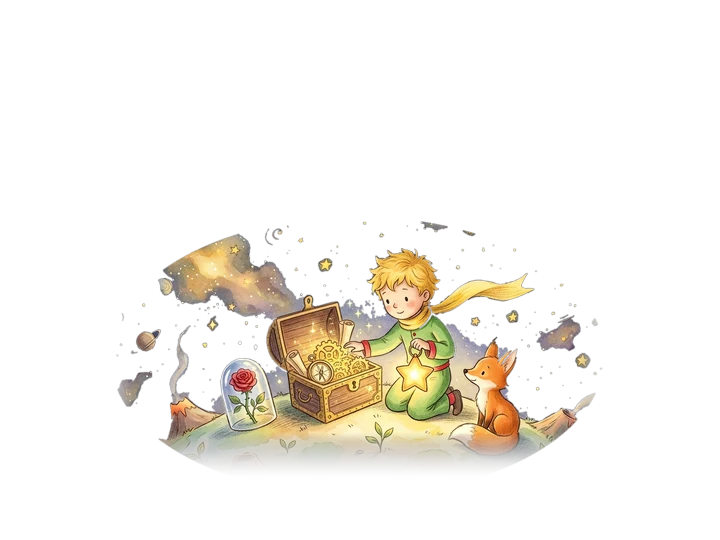
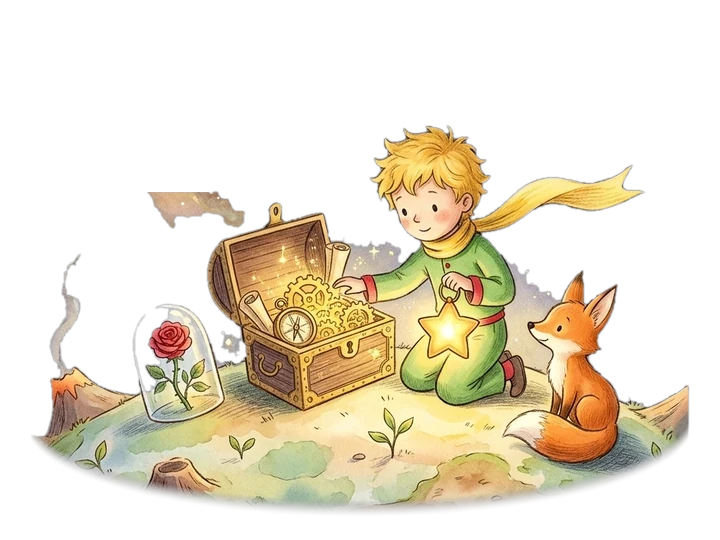
歌单换新83首曲库与随机1-5首极简模式、修复闻玫瑰黑影与手机尺寸、精选作品上移、手机卡片放大及图片解码同步加载

diff --git a/coming-soon.html b/coming-soon.html
@@ -1,0 +1,176 @@
+<!doctype html>
+<html lang="zh-CN" style="background:#070912">
+<head>
+<meta charset="utf-8">
+<meta name="viewport" content="width=device-width,initial-scale=1,viewport-fit=cover">
+<meta name="theme-color" content="#070912">
+<title>敬请期待 · B612 星球工坊 · WM的空间站</title>
+<meta name="description" content="WM的空间站 · B612 星球新工具正在打磨中，敬请期待。">
+<link rel="preload" as="image" href="assets/sky-b612.webp">
+<style>
+  :root{
+    --bg:#070912; --ink:#f5f7fc; --dim:#a0acc2; --gold:#ffd875; --mint:#7ef2b8; --blue:#7fe3ff; --rose:#ff9ebb;
+  }
+  *{box-sizing:border-box}
+  html,body{margin:0; background:var(--bg); overscroll-behavior-y:none}
+  body{
+    min-height:100svh; color:var(--ink);
+    font:16px/1.65 -apple-system,BlinkMacSystemFont,"Segoe UI","PingFang SC","Microsoft YaHei",sans-serif;
+    -webkit-font-smoothing:antialiased;
+    background:var(--bg) url(assets/sky-b612.webp) center/cover no-repeat fixed;
+    display:flex; flex-direction:column;
+  }
+  body::before{
+    content:""; position:fixed; inset:0; z-index:0; pointer-events:none;
+    background:radial-gradient(circle at 50% 22%, rgba(255,216,117,.14), transparent 56%),
+               linear-gradient(180deg,rgba(7,9,18,.62),rgba(7,9,18,.88) 58%,#070912 100%);
+  }
+  .wrap{position:relative; z-index:1; width:min(760px,92vw); margin:0 auto; padding:22px 0 64px; flex:1; display:flex; flex-direction:column}
+
+  .topbar{display:flex; align-items:center; justify-content:space-between; gap:12px; margin-bottom:24px}
+  .back{
+    display:inline-flex; align-items:center; gap:8px; text-decoration:none; color:#ffe6a3;
+    font-weight:700; font-size:13.5px; padding:8px 15px; border-radius:999px;
+    background:rgba(14,19,34,.84); border:1px solid rgba(255,224,140,.26); transition:transform .2s, background .2s;
+  }
+  .back:hover{background:var(--gold); color:#181002; transform:translate3d(-2px,0,0)}
+  .back svg{width:15px;height:15px}
+  .badge{
+    display:inline-flex; align-items:center; gap:8px; padding:6px 13px; border-radius:999px;
+    background:rgba(255,216,117,.12); border:1px solid rgba(255,216,117,.32);
+    font:600 11px/1 ui-monospace,monospace; letter-spacing:.08em; color:var(--gold);
+  }
+  .badge i{width:6px;height:6px;border-radius:50%;background:var(--gold);box-shadow:0 0 8px var(--gold)}
+
+  .stage-card{
+    margin:auto 0; padding:32px 28px 34px; border-radius:26px; text-align:center;
+    background:linear-gradient(165deg,rgba(16,22,40,.92),rgba(9,13,26,.96));
+    border:1px solid rgba(255,224,140,.24);
+    box-shadow:0 28px 70px -30px rgba(0,0,0,.92);
+  }
+  .art-frame{
+    width:min(480px,100%); aspect-ratio:16/10; margin:0 auto 22px; border-radius:18px; overflow:hidden;
+    border:1px solid rgba(255,224,140,.28); position:relative; background:#0b1020;
+    box-shadow:0 18px 44px -18px rgba(0,0,0,.85);
+  }
+  .art-frame img{width:100%; height:100%; object-fit:cover; display:block}
+  .soon-pill{
+    display:inline-flex; align-items:center; gap:8px; padding:6px 16px; border-radius:999px;
+    background:linear-gradient(90deg,rgba(255,216,117,.18),rgba(127,227,255,.16));
+    border:1px solid rgba(255,216,117,.42); color:var(--gold);
+    font:800 12px/1 ui-monospace,monospace; letter-spacing:.16em; margin-bottom:14px;
+  }
+  h1{margin:0 0 10px; font-size:clamp(26px,4.5vw,38px); font-weight:900; letter-spacing:-.02em; color:#fff}
+  h1 em{font-style:normal; color:var(--gold)}
+  .desc{margin:0 auto 20px; max-width:30em; color:#d2dced; font-size:15.5px}
+  .quote{
+    margin:0 auto 26px; max-width:32em; padding:12px 18px; border-radius:14px;
+    background:rgba(255,255,255,.04); border:1px dashed rgba(255,224,140,.24);
+    color:#ffefb8; font-size:13.5px;
+  }
+
+  .switcher{display:flex; justify-content:center; gap:10px; flex-wrap:wrap; margin-bottom:24px}
+  .sw-btn{
+    appearance:none; border:1px solid rgba(255,255,255,.14); background:rgba(255,255,255,.05);
+    color:#c6d0e4; font:700 12.5px/1 inherit; padding:9px 15px; border-radius:999px; cursor:pointer;
+    transition:all .18s ease;
+  }
+  .sw-btn:hover{border-color:var(--gold); color:#fff}
+  .sw-btn.on{background:var(--gold); border-color:var(--gold); color:#181002}
+
+  .home-btn{
+    display:inline-flex; align-items:center; gap:8px; padding:12px 26px; border-radius:999px;
+    background:linear-gradient(180deg,#ffe494,#ffc247); color:#181002;
+    font-weight:800; font-size:14px; text-decoration:none;
+    box-shadow:0 14px 32px -12px rgba(255,216,117,.65); transition:transform .18s;
+  }
+  .home-btn:hover{transform:translateY(-2px)}
+
+  @media(max-width:560px){
+    body{background-attachment:scroll}
+    .stage-card{padding:22px 18px 26px}
+  }
+</style>
+</head>
+<body>
+<div class="wrap">
+  <div class="topbar">
+    <a class="back" href="/">
+      <svg viewBox="0 0 24 24" fill="none" stroke="currentColor" stroke-width="2.2" stroke-linecap="round" stroke-linejoin="round"><path d="M15 5l-7 7 7 7"/></svg>
+      返回 B612 空间站
+    </a>
+    <span class="badge"><i></i>ASTEROID B612 · COMING SOON</span>
+  </div>
+
+  <div class="stage-card">
+    <div class="art-frame">
+      <img id="toolImg" src="assets/card-b612-star.webp" alt="B612 新工具插画">
+    </div>
+    <div class="soon-pill">✦ 敬请期待 · COMING SOON ✦</div>
+    <h1 id="toolTitle">B612 观星台 · <em>敬请期待</em></h1>
+    <p class="desc" id="toolDesc">小王子与小狐狸正在 B612 星球连夜组装这台新工具，打磨好每一颗齿轮后很快就会正式开放！</p>
+    <div class="quote" id="toolQuote">“如果你说你在下午四点来，从三点钟开始，我就开始感觉很快乐。”</div>
+
+    <div class="switcher" id="switcher">
+      <button class="sw-btn" type="button" data-k="star">🔭 B612 观星台</button>
+      <button class="sw-btn" type="button" data-k="box">🏮 星光百宝箱</button>
+      <button class="sw-btn" type="button" data-k="gate">✈ 星际任意门</button>
+    </div>
+
+    <a class="home-btn" href="/">← 先去空间站逛逛其他工具</a>
+  </div>
+</div>
+
+<script>
+(function(){
+  var TOOLS = {
+    star: {
+      title: 'B612 观星台',
+      img: 'assets/card-b612-star.webp',
+      desc: '小王子正架起黄铜天文望远镜校准星图——这里即将上线全新的星空探索与灵感观测小工具，敬请期待！',
+      quote: '“星星发亮，是为了让每一个人有一天都能找到属于自己的星。”'
+    },
+    box: {
+      title: '星光百宝箱',
+      img: 'assets/card-b612-lantern.webp',
+      desc: '小王子提着星星灯笼打开了木制百宝箱——更多实用的收纳、书签与随手小工具正在往箱子里装填，敬请期待！',
+      quote: '“真正重要的东西，用眼睛是看不见的，要用心去感受。”'
+    },
+    gate: {
+      title: '星际任意门',
+      img: 'assets/card-b612-plane.webp',
+      desc: '小王子正驾驶红色双翼小飞机环绕 B612 星球试飞——通往更多新奇世界（含海绵宝宝比奇堡空间站）的任意门即将开启，敬请期待！',
+      quote: '“走得再远，也别忘了当初出发时仰望的那片星空。”'
+    }
+  };
+
+  var params = new URLSearchParams(location.search);
+  var cur = params.get('tool') || 'star';
+  if (!TOOLS[cur]) cur = 'star';
+
+  var imgEl = document.getElementById('toolImg');
+  var titleEl = document.getElementById('toolTitle');
+  var descEl = document.getElementById('toolDesc');
+  var quoteEl = document.getElementById('toolQuote');
+  var btns = [].slice.call(document.querySelectorAll('#switcher .sw-btn'));
+
+  function apply(k){
+    var item = TOOLS[k] || TOOLS.star;
+    imgEl.src = item.img;
+    titleEl.innerHTML = item.title + ' · <em>敬请期待</em>';
+    descEl.textContent = item.desc;
+    quoteEl.textContent = item.quote;
+    btns.forEach(function(b){ b.classList.toggle('on', b.getAttribute('data-k') === k); });
+  }
+
+  document.getElementById('switcher').addEventListener('click', function(e){
+    var b = e.target.closest('[data-k]');
+    if (!b) return;
+    apply(b.getAttribute('data-k'));
+  });
+
+  apply(cur);
+})();
+</script>
+</body>
+</html>

diff --git a/index.html b/index.html
@@ -23,6 +23,7 @@
 <link rel="prefetch" href="/translate.html">
 <link rel="prefetch" href="/calc.html">
 <link rel="prefetch" href="/charm.html">
+<link rel="prefetch" href="/coming-soon.html">
 <link rel="prefetch" href="/tools/qianqian.html">
 <style>
   :root{
@@ -111,12 +112,12 @@
   /* ---------- 右侧：小王子 B612 星球 7 幕场景 + 随卡片轮转切换的《小王子》经典名言 ---------- */
   .scene{position:relative; flex:1 1 460px; max-width:600px; height:clamp(340px,45vh,464px); z-index:2;
     transform:translate3d(0,clamp(8px,2vh,24px),0); pointer-events:none; user-select:none}
-  .island{position:absolute; left:50%; bottom:24px; width:102%; transform:translate3d(-50%,0,0);
+  .island{position:absolute; left:50%; bottom:24px; width:104%; transform:translate3d(-50%,0,0);
     will-change:transform; backface-visibility:hidden; animation:islandBob 9s ease-in-out infinite}
   .b612-stage{position:relative; width:100%; aspect-ratio:720/540; contain:layout style}
   .b612-deco{position:absolute; inset:-4% -3% 0; width:106%; height:104%; overflow:visible; pointer-events:none; z-index:1}
   .b612-slide{
-    position:absolute; inset:0; width:90%; height:100%; margin:0 auto; object-fit:contain; z-index:2;
+    position:absolute; inset:0; width:94%; height:100%; margin:0 auto; object-fit:contain; z-index:2;
     opacity:0; transform:translate3d(0,6px,0) scale(.965);
     transition:opacity .52s var(--ease), transform .58s var(--ease);
     will-change:opacity, transform; backface-visibility:hidden; -webkit-backface-visibility:hidden;
@@ -336,9 +337,9 @@
     .hero-copy{max-width:100%}
     .hero h1 .sp-stars{right:-38px; top:-6px; width:34px; height:30px}
     .lede{margin-top:12px}
-    .scene{flex:0 0 auto; width:100%; max-width:none; height:236px; margin:4px 0 2px; transform:none}
-    .island{width:96%; bottom:22px}
-    .b612-slide{width:76%}
+    .scene{flex:0 0 auto; width:100%; max-width:none; height:242px; margin:4px 0 2px; transform:none}
+    .island{width:98%; bottom:22px}
+    .b612-slide{width:82%}
     .b612-quote{bottom:-2px; font-size:11.5px; padding:4px 12px; max-width:92vw}
     .deck-wrap{position:relative; padding:2px 0 8px; margin:0 -5vw}
     .deck{padding:14px 0 14px}
@@ -354,7 +355,7 @@
     .stack-grid{grid-template-columns:1fr}
     .rail{top:10px; padding:7px 8px}
     .brand{font-size:12.5px; padding:6px 12px 6px 6px}
-    .scene{height:226px; margin:2px 0 2px}
+    .scene{height:232px; margin:2px 0 2px}
   }
   @media (prefers-reduced-motion:reduce){
     html{scroll-behavior:auto}
@@ -470,7 +471,7 @@
       <div class="b612-quote" id="b612Quote">“真正重要的东西，用眼睛是看不见的，要用心去感受。”</div>
     </div>
 
-    <!-- 底部：120帧物理阻尼连续轮转工具卡带（已实装新绘制的 3 张小王子插画卡，共 8 张） -->
+    <!-- 底部：120帧物理阻尼连续轮转工具卡带（新增的 3 张卡片点开均跳转至专属「敬请期待」页） -->
     <div class="deck-wrap">
       <div class="deck" id="deck" aria-label="工具轮转长廊">
         <div class="deck-track" id="deckTrack">
@@ -494,16 +495,16 @@
             <em class="c-tag">教程 · 独门秘籍</em>
             <img src="assets/card-charm.webp" loading="eager" fetchpriority="high" decoding="async" alt="如何才能变得像猛哥一样有魅力"><span class="cap">如何才能变得像猛哥一样有魅力</span>
           </a>
-          <a class="card" href="#lab" data-idx="5" data-bg="#0b1324" data-ac="#ffe082" data-tint="rgba(255,224,130,.20)" style="--c-ac:#ffe082">
-            <em class="c-tag">天文望远镜 · 探索</em>
+          <a class="card" href="/coming-soon.html?tool=star" data-idx="5" data-bg="#0b1324" data-ac="#ffe082" data-tint="rgba(255,224,130,.20)" style="--c-ac:#ffe082">
+            <em class="c-tag">敬请期待 · 探索</em>
             <img src="assets/card-b612-star.webp" loading="eager" fetchpriority="high" decoding="async" alt="B612 观星台"><span class="cap">B612 观星台</span>
           </a>
-          <a class="card" href="#stack" data-idx="6" data-bg="#151109" data-ac="#ffd166" data-tint="rgba(255,209,102,.20)" style="--c-ac:#ffd166">
-            <em class="c-tag">星星提灯 · 宝盒</em>
+          <a class="card" href="/coming-soon.html?tool=box" data-idx="6" data-bg="#151109" data-ac="#ffd166" data-tint="rgba(255,209,102,.20)" style="--c-ac:#ffd166">
+            <em class="c-tag">敬请期待 · 宝盒</em>
             <img src="assets/card-b612-lantern.webp" loading="eager" fetchpriority="high" decoding="async" alt="星光百宝箱"><span class="cap">星光百宝箱</span>
           </a>
-          <a class="card" href="#works" data-idx="7" data-bg="#120c1c" data-ac="#ff9ebb" data-tint="rgba(255,158,187,.22)" style="--c-ac:#ff9ebb">
-            <em class="c-tag">双翼飞机 · 巡航</em>
+          <a class="card" href="/coming-soon.html?tool=gate" data-idx="7" data-bg="#120c1c" data-ac="#ff9ebb" data-tint="rgba(255,158,187,.22)" style="--c-ac:#ff9ebb">
+            <em class="c-tag">敬请期待 · 巡航</em>
             <img src="assets/card-b612-plane.webp" loading="eager" fetchpriority="high" decoding="async" alt="星际任意门"><span class="cap">星际任意门</span>
           </a>
         </div>
@@ -511,7 +512,7 @@
     </div>
   </section>
 
-  <!-- 精选作品（已移至核心功能上方，含新绘制的 3 张小王子插画作品卡） -->
+  <!-- 精选作品（已移至核心功能上方，新工具卡片点击进入「敬请期待」页） -->
   <section class="sec" id="works">
     <div class="wrap">
       <div class="sec-head rise">
@@ -539,17 +540,17 @@
           <img src="assets/card-charm.webp" loading="eager" decoding="async" alt="如何才能变得像猛哥一样有魅力">
           <div class="wb"><div><h3>教程：如何才能变得像猛哥一样有魅力 <small>独门秘籍 · 必看</small></h3><p>B612 星球绝密修炼卷轴 / 点击揭晓终极答案</p></div><span class="go">揭秘 →</span></div>
         </a>
-        <a class="work rise" href="#lab">
+        <a class="work rise" href="/coming-soon.html?tool=star">
           <img src="assets/card-b612-star.webp" loading="eager" decoding="async" alt="B612 观星台">
-          <div class="wb"><div><h3>B612 观星台 <small>天文望远镜 · 探索</small></h3><p>小王子与小狐狸观测星座连线 / 硬件实验与本地工具入口</p></div><span class="go">查看 →</span></div>
+          <div class="wb"><div><h3>B612 观星台 <small>敬请期待 · COMING SOON</small></h3><p>小王子与小狐狸观测星座连线 / 新工具正在打磨中</p></div><span class="go">敬请期待 →</span></div>
         </a>
-        <a class="work rise" href="#stack">
+        <a class="work rise" href="/coming-soon.html?tool=box">
           <img src="assets/card-b612-lantern.webp" loading="eager" decoding="async" alt="星光百宝箱">
-          <div class="wb"><div><h3>星光百宝箱 <small>星星提灯 · 宝盒</small></h3><p>提着星星灯笼开启齿轮与罗盘宝箱 / 空间站核心技术栈</p></div><span class="go">查看 →</span></div>
+          <div class="wb"><div><h3>星光百宝箱 <small>敬请期待 · COMING SOON</small></h3><p>提着星星灯笼开启齿轮与罗盘宝箱 / 新工具正在打磨中</p></div><span class="go">敬请期待 →</span></div>
         </a>
-        <a class="work rise wide" href="#top">
+        <a class="work rise wide" href="/coming-soon.html?tool=gate">
           <img src="assets/card-b612-plane.webp" loading="eager" decoding="async" alt="星际任意门">
-          <div class="wb"><div><h3>星际任意门 <small>双翼飞机 · B612巡航</small></h3><p>小王子驾驶双翼飞机环绕 B612 星球与玫瑰花 / 更多新脑洞即将降落</p></div><span class="go">巡航 →</span></div>
+          <div class="wb"><div><h3>星际任意门 <small>敬请期待 · COMING SOON</small></h3><p>小王子驾驶双翼飞机环绕 B612 星球 / 更多新世界即将开启</p></div><span class="go">敬请期待 →</span></div>
         </a>
       </div>
     </div>
